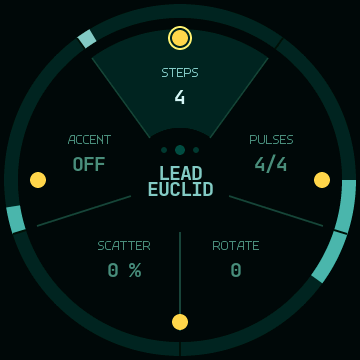
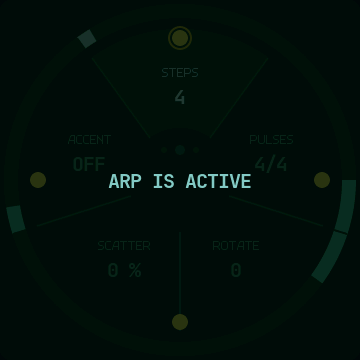
OBOD 1.2.0: снимки EUCLID с арпеджиатором и без, тексты

diff --git a/obod/assets/ref.js b/obod/assets/ref.js
@@ -385,8 +385,10 @@ var SHOTS = {
 
 /*
  * Дополнительные кадры экрана: метка экрана → список кадров, каждый с файлом и подписью. Это
- * тот же экран в другом состоянии — например, страница без арпеджиатора, — и на вкладке экрана
- * он показывается следом за основным снимком такой же фигурой.
+ * тот же экран в другом состоянии — у LEAD EUCLID это страница без арпеджиатора, — и на вкладке
+ * экрана он показывается следом за основным снимком такой же фигурой. Оба кадра снимает прошивка
+ * одним обходом: второй идёт под именем LEAD EUCLID ARP OFF, выставлять состояние на приборе
+ * руками не нужно.
  *
  * Имена и подписи сверяет tools/screens-check.js: кадр без файла, кадр без подписи, ссылка на
  * метку, которой нет в SHOTS, и файл, на который не ссылается ни одна страница, роняют проверку.
